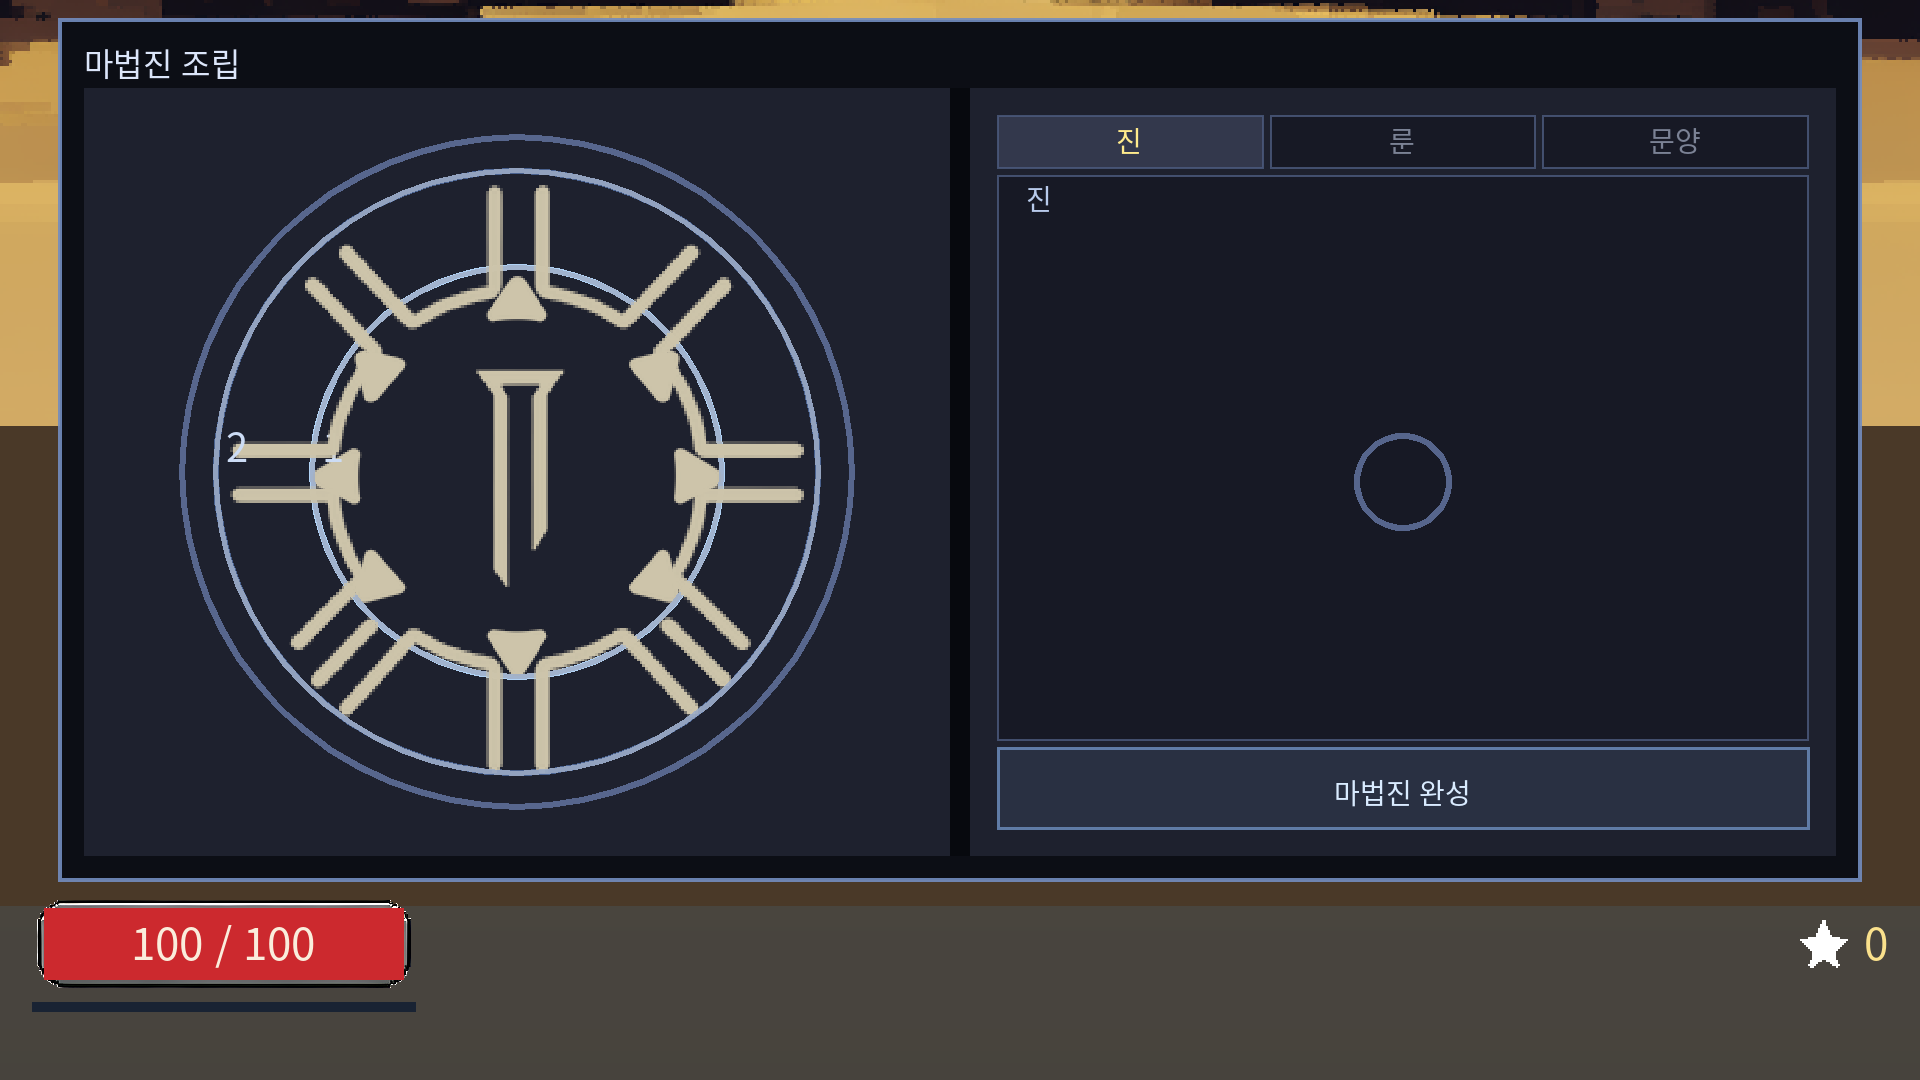
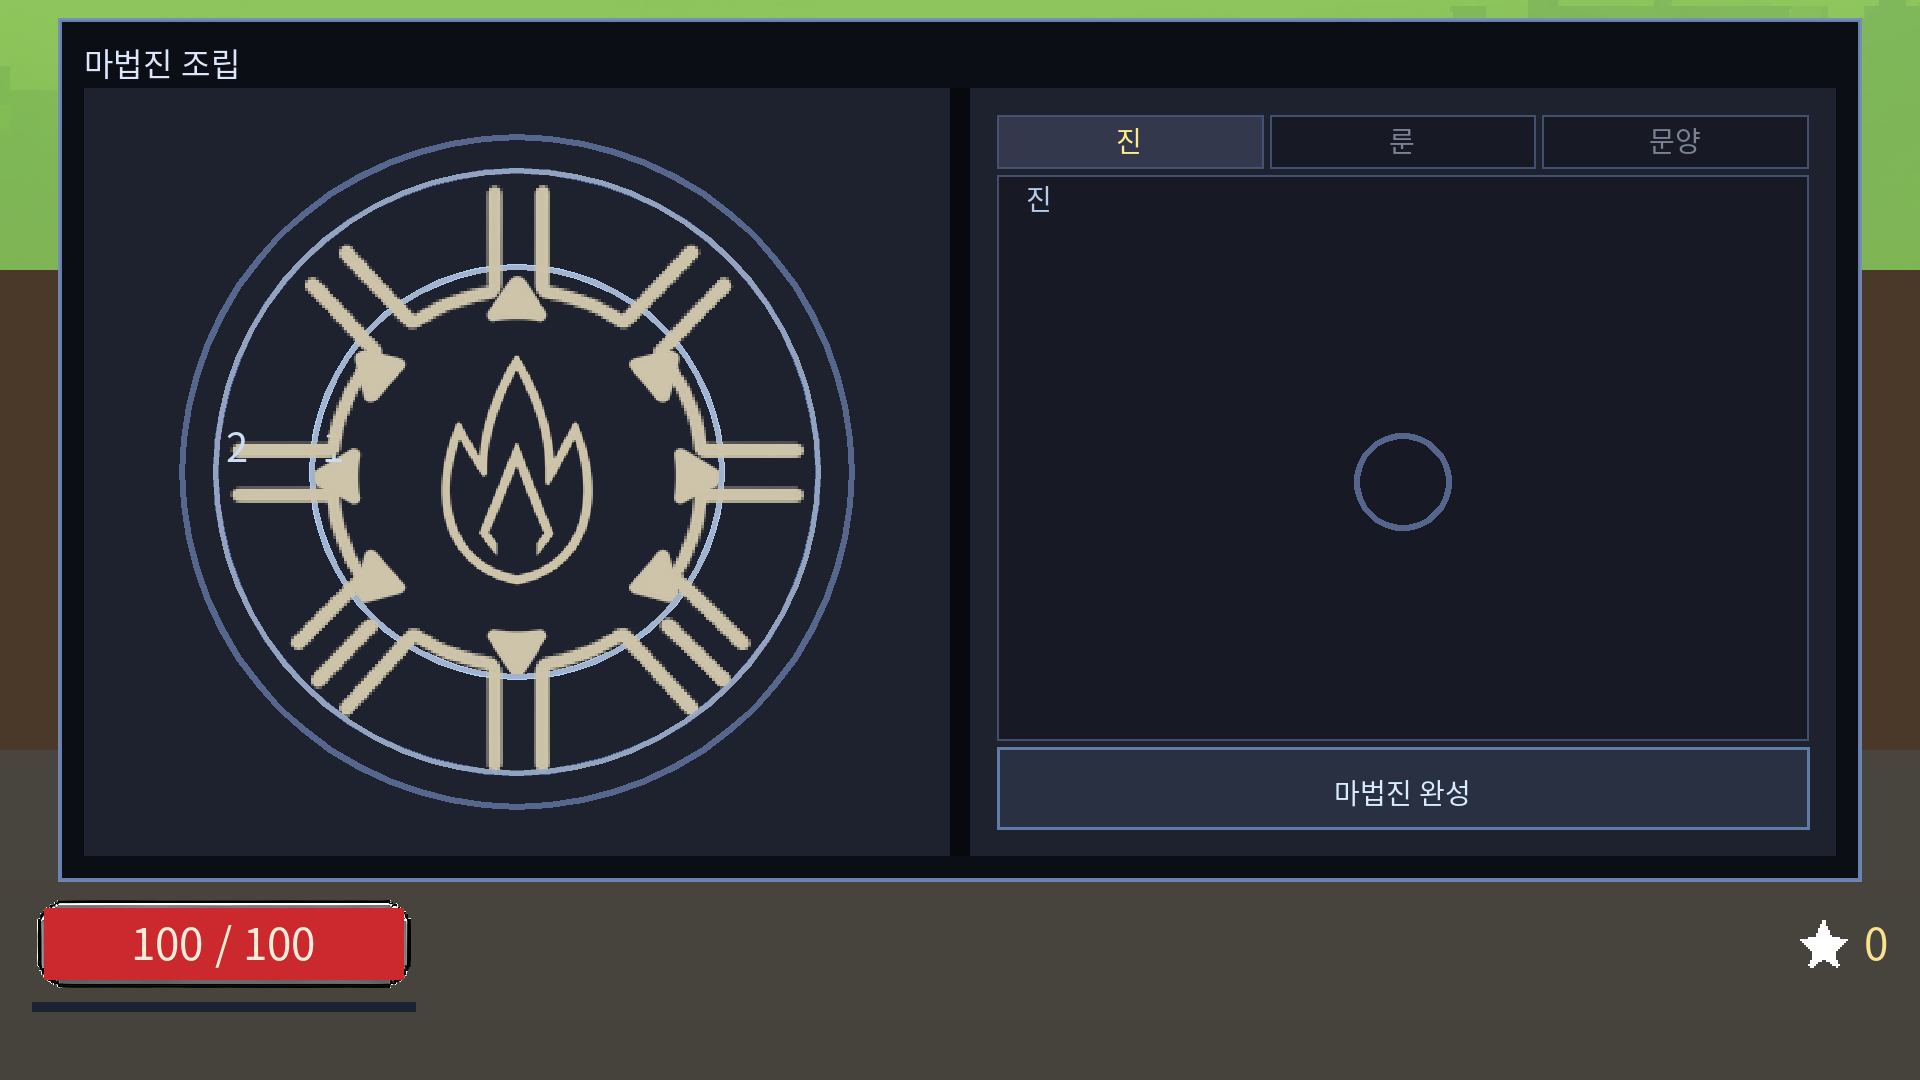
세 장 뽑기는 P가 아니라 V다
사용자 결정. 늑대 소환이 이미 V를 쓰고 있어 K로 비켰다 — 같은 글자를 플레이어 키와
개발자 키가 나눠 쓰면 F3를 켠 채 뽑기를 열려다 늑대가 튀어나온다.

고친 곳은 인풋맵 · 화면 키 캡 · F3 안내 두 줄 · plan.md 조작표 · 제출 안내판 · 넷 둘.
안내 문구의 P는 net_render 가 잡았다 — 안내가 말하는 키가 실제로 묶여 있는지 재고 있다.

8,484 검사 · 0 실패 · 38 그물 · 24.3s

Claude-Session: https://claude.ai/code/session_017xkQ512gLvNG4bnZt7whw9

Changed region(s): [[0.0, 0.0, 1.0, 0.3972], [0.2188, 0.3361, 0.3125, 0.55]]

diff --git a/tools/submission/shots.py b/tools/submission/shots.py
@@ -29,7 +29,7 @@ ORDERS = ["spread-blast", "blast-spread"]
 # The assembly window's left pane, in the 1920x1080 capture. The circle is drawn centred in
 # it, so the crop is a square around the circle rather than the pane's own rectangle —
 # cropping the pane would carry its empty right half into a figure that is already wide.
-CIRCLE_CROP = (120, 85, 940, 905)
+CIRCLE_CROP = (125, 80, 905, 860)
 # The world half. **Its left edge is past x=430 deliberately** — the health gauge sits in the
 # bottom-left of every capture, and a gauge inside a figure about terrain is noise.
 FX_CROP = (560, 400, 1700, 960)

diff --git a/docs/submission/README.md b/docs/submission/README.md
@@ -70,8 +70,9 @@ git worktree remove --force C:\temp\ghp; git worktree prune
 ### 요강이 요구하는 저장소 조건 — 전부 충족
 
 - **전체 소스 코드를 같은 저장소에 포함** — `main` 브랜치
-- **커밋 기록 유지** — **147개** 커밋(2026-08-10 11:20 측정, `git rev-list --count HEAD`). squash하지 않았다
-- **공개(public)** — 전환 완료. 심사 계정 초대 불필요
+- **커밋 기록 유지** — **182개** 커밋(2026-08-10 20:40 측정, `git rev-list --count HEAD`). squash하지 않았다
+- **공개(public)** — 전환 완료. 요강은 비공개일 경우 심사 계정 `dl_gameai_reviewer@nhn.com`을
+  초대하라고 적고 있는데, **공개이므로 초대할 것이 없다**
 
 ### 공개 전 시크릿 검사 (완료)
 
@@ -181,20 +182,34 @@ python tools\submission\md2pdf.py
 
 ---
 
-## 4차 적대적 검토에서 나온 고칠 것 — **아직 하나도 안 고쳤다**
+## 4차 적대적 검토에서 나온 고칠 것 — **여덟 중 일곱이 닫혔다**
 
-`plan.md`를 코드와 대회 사이트 원문에 각각 대조한 결과다. **위에서부터 심각하다.**
+`plan.md`를 코드와 대회 사이트 원문에 각각 대조한 결과다. **위에서부터 심각했다.**
+**2026-08-10 20:40 재대조** — 코드를 다시 읽고, 그림을 다시 찍고, 사이트 원문을 다시 열어 확인했다.
 
-| # | 무엇 | 어디서 고치나 |
+| # | 무엇 | 지금 |
 |---|---|---|
-| 1 | **황소를 잡아도 아무것도 안 나온다.** 보상 수령이 F3→L 개발자 키 전용(`stage.gd:_take_boss_reward`의 유일한 호출자가 `reward_taken_requested`). 불 룬도 물도 안 나오고, 구덩이 동쪽이 **6타일 수직벽**이라 나무벽·잡몹②·거대 수탉·게이트가 **전부 도달 불가** | 코드. 보스 사망에 배선 |
-| 2 | 요강 필수 항목 누락 — **조작 · 실행 방법 · 종료 조건 · 영상 링크.** 직전 커밋엔 있었고 줄이다가 날아갔다 (`git show HEAD:docs/submission/plan.md`) | `plan.md` |
-| 3 | **순서 비교 그림이 캡션과 반대다.** 픽셀 실측으로 확산→폭발이 1.9배 더 깊게 팠고, 두 샷의 지표면이 168px 어긋나 있다(캐릭터가 제 구덩이에 빠졌다) | 재촬영 (`tools/submission/shots.py`) |
-| 4 | 거짓 문장 넷 — 번개 전도 · "변형은 비행을 바꾼다"(위력만 곱한다) · "문양이 사라진다"(문양엔 소유 개념이 없다) · "속성마다 날아가는 모양이 다르다"(궤적은 동일, 색만 다르다) | `plan.md`. **삭제가 아니라 「준비 중」으로** |
-| 5 | **팔레트가 모든 문양을 공짜로 준다.** Tab 한 번에 삼각 진 + 유일 등급 셋. 3택이 유일 획득 경로라는 서사가 30초면 무너진다 | 코드. 그 뒤 조립창 그림 재촬영 |
-| 6 | 「이 빌드가 아직 아닌 것」이 사라졌다 — 소리 0개 · 스테이지 1개 · 솔로 전용 | `plan.md` |
-| 7 | 「거대 닭」 → 게임 안 이름은 **거대 수탉** | `plan.md` |
-| 8 | 이 README의 거짓 둘 — 푸터는 **문서 맨 끝**이고 **영상 링크가 없다**(플레이·소스만), `R`은 F3 뒤가 아니라 **게이트 앞 플레이어 키**다 | 이 파일 · `md2pdf.py` |
+| 1 | **황소를 잡아도 아무것도 안 나온다.** 보상 수령이 F3→L 개발자 키 전용이었다 | **닫혔다.** `stage.gd`가 `is_reward_pending`에서 `_take_boss_reward()`를 스스로 부른다 — 개발자 키를 안 눌러도 불 룬이 나온다 |
+| 2 | 요강 필수 항목 누락 — **조작 · 실행 방법 · 종료 조건 · 영상 링크** | **셋은 돌아왔다.** `plan.md`에 조작 표 · 실행 방법 · 종료 조건이 있다. **영상 링크만 비어 있다** |
+| 3 | **순서 비교 그림이 캡션과 반대다** | **닫혔다.** 아래 「그림을 다시 찍었다」 참조 |
+| 4 | 거짓 문장 넷 — 번개 전도 · "변형은 비행을 바꾼다" · "문양이 사라진다" · "속성마다 날아가는 모양이 다르다" | **닫혔다.** 번개는 「아직 아닌 것」으로, 변형은 "위력까지 들어갔고 가속·유도·회전은 준비 중"으로 내려 적었다 |
+| 5 | **팔레트가 모든 문양을 공짜로 준다** | **닫혔다 — 코드가 앞질렀다.** `palette_layout.items_of()`가 소유로 거른다. 조립창 그림에 문양이 **둘만** 뜨는 것이 그 증거다 |
+| 6 | 「이 빌드가 아직 아닌 것」이 사라졌다 | **돌아왔다.** 다만 사운드는 이제 **있다**(코드 합성) |
+| 7 | 「거대 닭」 → 게임 안 이름은 **거대 수탉** | `plan.md`는 고쳤다. **이 파일이 아직 「거대 닭」이라 적고 있었고 그것도 고쳤다** |
+| 8 | 이 README의 거짓 둘 — 푸터에 영상 링크가 없다, `R`은 게이트 앞 플레이어 키다 | `R`은 확인했다 — **게이트 앞이 맞다**(`stage_input.gd`가 그 이유까지 적어 뒀다: 제 발밑을 파면 R 말고 나갈 길이 없다). **푸터는 여전히 플레이·소스 둘뿐이다** |
+
+### 그림을 다시 찍었다 — **문양이 커진 뒤로 낡아 있었다**
+
+`shots.py`를 다시 돌리는 것으로 끝나지 않았다. 재촬영이 세 가지를 드러냈다.
+
+| 무엇 | 어떻게 드러났나 |
+|---|---|
+| 두 순서 그림이 **무속성 룬**으로 찍혀 있었다 | 가운데가 불꽃이 아니라 못이었다. 마을을 거쳐 무대를 세우는 동안 룬이 되돌려졌고, `_seat_fire()`를 프리셋 **뒤로** 옮겨 고쳤다 |
+| 두 순서 그림의 하늘이 **마을의 노을**이었다 | `set_backdrop`이 인자를 둘 받다가 하나로 줄었는데 호출이 그대로였다. **에러가 `await` 안에서 났기 때문에 촬영은 끝까지 돌았고**, 종료 코드 255만 남았다 — 그림은 이미 디스크에 있었다 |
+| 「여덟 갈래가 각각 터지는 순간」이 **찍히지 않는다** | 30·45·60·75·90프레임을 훑었다. 갈래마다 제 궤적으로 날아가 제각기 터져서, 90프레임이면 둘만 터진 채 화면 양끝에 있고 그중 하나는 캐릭터를 맞힌다(90/100). **순서를 보여주는 순간은 부채꼴 그 자체**라 45로 내리고 캡션을 그림에 맞췄다 |
+
+**조립창 그림은 팔레트를 「문양」 탭으로 열어 찍는다.** 창은 열릴 때마다 「진」 탭으로 돌아가는데,
+그 탭에는 가진 진이 하나뿐이라 **"고를 것이 없다"로 읽혔다.**
 
 ---
 
@@ -226,7 +241,7 @@ python tools\submission\md2pdf.py
   M 한 번이면 심사자 머리 위에 황소가 서고, 1 한 번이면 조립이 바뀌고, R 한 번이면 런이 날아간다.
   셋 다 「키를 눌렀다」로 안 읽히고 **게임이 깨진 걸로 읽힌다.**
   ⇒ **F3가 개발자 모드가 됐다** (`stage_input._debug_on`). 게이트 뒤: 1~6 · M/N/B/C/V · T · G · L · R · 줌.
-  게이트 앞(플레이어 키): 이동 · 점프 · 발사 · Tab · P · ESC · **F(상호작용)**.
+  게이트 앞(플레이어 키): 이동 · 점프 · 발사 · Tab · V · ESC · **F(상호작용)**.
   `net_render._developer_keys_are_gated_behind_f3`가 실제 키 이벤트로 잰다
 - ~~사운드가 하나도 없다~~ — **닫혔다.** 오디오 파일은 여전히 0개지만 효과음을 부팅 때 코드로 합성한다 (`src/view/sfx_bank.gd`)
 - **스테이지가 하나뿐이다.** GDD는 첫 빌드를 두 스테이지로 적고 있다.
@@ -239,10 +254,10 @@ python tools\submission\md2pdf.py
 
 | 이전 위험 | 지금 |
 |---|---|
-| 몬스터가 맵에 0마리 — "샌드박스다" | **배치됨.** 잡몹 3무리(18) + 황소 + 거대 닭. 자는 몹은 깨기 전에 보인다 |
+| 몬스터가 맵에 0마리 — "샌드박스다" | **배치됨.** 잡몹 3무리(18) + 황소 + 거대 수탉. 자는 몹은 깨기 전에 보인다 |
 | 클리어 판정이 없다 | **있다.** 벽 붕괴 → 아치 → `스테이지 1 클리어` 정산 화면 |
 | 사망 시 자동 재시작이 없다 | **닫혔다.** 쓰러지면 정산 화면이 열리고 그 버튼이 마을로 보낸다 |
-| 넷 3개가 빨갛다 | **초록.** **8,423 검사 · 35 그물 · 0 실패 · 30.1s** (2026-08-10 11:20) |
-| 미커밋 에셋 13장 | 커밋됨. 워킹트리와 커밋이 png 85장으로 일치 |
+| 넷 3개가 빨갛다 | **초록.** **8,484 검사 · 38 그물 · 0 실패 · 22.7s** (2026-08-10 20:35, 편집이 멈춘 상태에서 측정) |
+| 미커밋 에셋 13장 | 커밋됨. `assets/`의 png는 **88장**이고 워킹트리와 커밋이 일치한다 |
 | HUD가 디버그 라벨 문장이었다 | **게이지가 됐다.** 체력은 좌하단 바 **안**에 숫자, XP는 얇은 선, 돈은 우하단 코너 |
 | 웹에서 한국어가 두부였다 | **닫혔다.** Noto Sans KR 번들 (위 목록 참조) |

diff --git a/docs/submission/plan.md b/docs/submission/plan.md
@@ -16,7 +16,7 @@
 
 마법진을 직접 조립해 나만의 마법을 만드는 것이 이 게임의 핵심 재미다.
 
-![개발 중인 조립창. 왼쪽이 조립한 마법진, 오른쪽이 진·룬·문양을 고르는 팔레트다](img/circle-window.png)
+![개발 중인 조립창. 왼쪽이 조립한 마법진, 오른쪽이 팔레트다. **가진 것만 뜬다** — 이 판에서 얻은 문양이 둘이라 둘만 있다](img/circle-window.png)
 
 마법진은 진, 룬, 문양 셋으로 이루어진다.
 
@@ -32,7 +32,7 @@
 물은 파인 구멍으로 흘러 들어가고, 맞은 것은 젖는다.
 속성이 세계의 자연법칙과 맞물리는 자리를 목표로 한다.
 
-![왼쪽은 불이 나무를 타고 번지는 중이고, 가운데는 마법이 판 구덩이, 오른쪽은 그 구덩이로 흘러 들어가는 물이다. 실제 게임 화면이다](img/world.png)
+![왼쪽에서는 불이 나무를 타고 번지는 중이고, 오른쪽은 마법이 판 구덩이와 그리로 흘러 들어가는 물이다. 실제 게임 화면이다](img/world.png)
 
 그 마법진 하나로 앞을 막는 장애물을 헤쳐 나가는 게임이다.
 부서지는 세계와 주문 조합은 노이타, 횡스크롤 로그라이크의 구조는 데드셀을 참고했다.
@@ -64,15 +64,17 @@
 아래 두 그림은 왼쪽이 조립한 마법진, 오른쪽이 그 마법진이 세계에 낸 자국이다.
 같은 자리에 같은 횟수를 쐈고, 바꾼 것은 층 순서뿐이다.
 
-확산 다음 폭발이면, 맞은 자리에서 여덟 갈래로 흩어지고 그 여덟이 각각 터진다.
-여러 군데에서 동시에 터진다.
+확산 다음 폭발이면, 맞은 자리에서 여덟 갈래로 흩어지고 그 여덟이 **각자 닿는 곳에서** 터진다.
+터지는 자리가 여덟 군데로 갈라진다.
 
-![확산 다음 폭발. 여덟 갈래가 각각 터지는 순간이다. 실제 게임 화면](img/order-spread-blast.png)
+![확산 다음 폭발. 맞은 자리에서 여덟 갈래가 흩어지는 순간이다. 실제 게임 화면](img/order-spread-blast.png)
 
-폭발 다음 확산이면, 맞은 자리에서 먼저 크게 터지고 거기서 여덟 갈래가 흩어진다.
+폭발 다음 확산이면, 맞은 자리에서 **먼저 크게 터지고** 거기서 여덟 갈래가 흩어진다.
 한 군데가 크게 터지고 불씨가 퍼진다.
 
-![폭발 다음 확산. 한 번 크게 터지고 거기서 흩어지는 순간이다. 실제 게임 화면](img/order-blast-spread.png)
+![폭발 다음 확산. 크게 터진 그 자리에서 갈래가 흩어지는 순간이다. 실제 게임 화면](img/order-blast-spread.png)
+
+두 그림의 왼쪽을 견주면 층이 뒤집혀 있다 — 안쪽 층이 먼저 읽히는 문양이다.
 
 그래서 조합이 아니라 순열이다. 문양이 셋이면 여섯 가지, 넷이면 스물네 가지가 된다.
 문양을 몇 장 얻었느냐보다 어떤 순서로 쌓았느냐가 빌드를 가른다.
@@ -155,7 +157,7 @@
 | Space | 점프. 누르고 있는 시간이 높이다 |
 | 마우스 좌클릭 | 발사. 반동으로 옆으로 밀린다 |
 | Tab | 조립 창. 마법진의 층을 바꾼다. 세계는 멈추지 않는다 |
-| P | 레벨업 3택 창. 레벨업 표시가 떴을 때 |
+| V | 레벨업 3택 창. 레벨업 표시가 떴을 때 |
 | F | 마을에서 설비를 쓴다 |
 | R | 판을 처음부터 |
 | ESC | 열린 창을 닫는다 |
@@ -178,8 +180,6 @@
 - **협동 2~4인은 설계까지다.** 세계의 절반(격자와 마법)을 정수 결정론으로 돌린 것이 그것을 위한 준비다
 - **문양은 17개를 설계했고 3개가 들어갔다.** 확산, 폭발, 응축
 - **장비(지팡이·로브·부츠)는 설계까지다**
-- **획득 제약이 아직 없다.** 조립창 팔레트에서 문양과 진을 그냥 꽂을 수 있다.
-  3택을 유일한 획득 경로로 막는 것이 다음 순서다
 
 ---
 

diff --git a/docs/submission/ai-tech.md b/docs/submission/ai-tech.md
@@ -5,7 +5,7 @@
 자랑할 것은 완성도가 아니라 속도이고, 그 속도는 코드를 빨리 쓴 데서가 아니라
 **AI가 거짓말을 못 하게 막은 데서** 나왔다.
 
-*(1인 개발, 8일, 커밋 180개. 수치는 제출 시점 측정.)*
+*(1인 개발, 8일, 커밋 183개. 수치는 제출 시점 측정.)*
 
 ---
 
